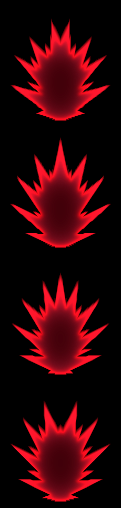
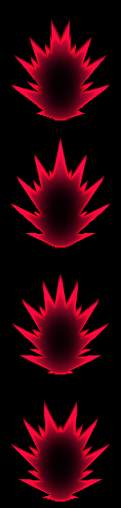
uh

diff --git a/Effects/Animations/Aura/AuraAnimations.cs b/Effects/Animations/Aura/AuraAnimations.cs
@@ -41,15 +41,15 @@ namespace DBZMOD.Effects.Animations.Aura
         public static AuraAnimationInfo ssj3Aura = new AuraAnimationInfo(AuraID.SSJ3, GetAnimationSpriteName("SSJ3Aura"), 4, 3, BlendState.Additive, "Sounds/SSJAscension", "Sounds/SSJ3", 260, true, false, null, 0, null, 1);
         public static AuraAnimationInfo ssj4Aura = new AuraAnimationInfo(AuraID.SSJ4, GetAnimationSpriteName("SSJ1Aura"), 4, 3, BlendState.Additive, "Sounds/SSJAscension", "Sounds/EnergyCharge", 22, true, false, null, 2, new AuraAnimationInfo.DustDelegate(DoSSJ1Dust), 1);
 
-        public static AuraAnimationInfo ssjgAura = new AuraAnimationInfo(AuraID.SSJG, GetAnimationSpriteName("SSJGAura"), 8, 3, BlendState.Additive, "Sounds/SSJAscension", "Sounds/SSG", 340, true, false, new AuraAnimationInfo.DustDelegate(DoChargeDust), 0, null, 1);
+        public static AuraAnimationInfo ssjgAura = new AuraAnimationInfo(AuraID.SSJG, GetAnimationSpriteName("SSJGAura"), 8, 3, BlendState.AlphaBlend, "Sounds/SSJAscension", "Sounds/SSG", 340, true, false, new AuraAnimationInfo.DustDelegate(DoChargeDust), 0, null, 1);
         public static AuraAnimationInfo ssjbAura = new AuraAnimationInfo(AuraID.SSJB, GetAnimationSpriteName("SSJBAura"), 8, 3, BlendState.Additive, "Sounds/SSJAscension", "Sounds/SSG", 340, true, false, new AuraAnimationInfo.DustDelegate(DoChargeDust), 0, null, 1);
         public static AuraAnimationInfo ssjrAura = new AuraAnimationInfo(AuraID.SSJR, GetAnimationSpriteName("SSJRAura"), 8, 3, BlendState.Additive, "Sounds/SSJAscension", "Sounds/SSG", 340, true, false, new AuraAnimationInfo.DustDelegate(DoChargeDust), 0, null, 1);
 
         public static AuraAnimationInfo uiOmenAura = new AuraAnimationInfo(AuraID.UIOmen, GetAnimationSpriteName("UIOmenAura"), 15, 4, BlendState.Additive, "Sounds/SSJAscension", "Sounds/SSG", 340, true, false, new AuraAnimationInfo.DustDelegate(DoChargeDust), 0, null, 1);
 
         public static AuraAnimationInfo createFalseUIAura = new AuraAnimationInfo(AuraID.FalseUI, GetAnimationSpriteName("FalseUIAura"), 15, 4, BlendState.Additive, "Sounds/SSJAscension", "Sounds/EnergyCharge", 22, true, false, new AuraAnimationInfo.DustDelegate(DoFalseUIDust), 0, null, 1);
-        public static AuraAnimationInfo createKaiokenAura = new AuraAnimationInfo(AuraID.Kaioken, GetAnimationSpriteName("KaiokenAura"), 4, 3, BlendState.AlphaBlend, "Sounds/KaioAuraStart", "Sounds/EnergyCharge", 22, true, true, null, 0, null, 0);
-        public static AuraAnimationInfo createSuperKaiokenAura = new AuraAnimationInfo(AuraID.SuperKaioken, GetAnimationSpriteName("SuperKaiokenAura"), 4, 3, BlendState.AlphaBlend, "Sounds/KaioAuraStart", "Sounds/EnergyCharge", 22, true, true, null, 0, null, 0);
+        public static AuraAnimationInfo createKaiokenAura = new AuraAnimationInfo(AuraID.Kaioken, GetAnimationSpriteName("KaiokenAura"), 4, 3, BlendState.Additive, "Sounds/KaioAuraStart", "Sounds/EnergyCharge", 22, true, true, null, 0, null, 0);
+        public static AuraAnimationInfo createSuperKaiokenAura = new AuraAnimationInfo(AuraID.SuperKaioken, GetAnimationSpriteName("SuperKaiokenAura"), 4, 3, BlendState.Additive, "Sounds/KaioAuraStart", "Sounds/EnergyCharge", 22, true, true, null, 0, null, 0);
         
         public static AuraAnimationInfo lssjAura = new AuraAnimationInfo(AuraID.LSSJ, GetAnimationSpriteName("LSSJAura"), 4, 3, BlendState.Additive, "Sounds/SSJAscension", "Sounds/SSJ2", 510, true, false, null, 0, null, 1);
         
